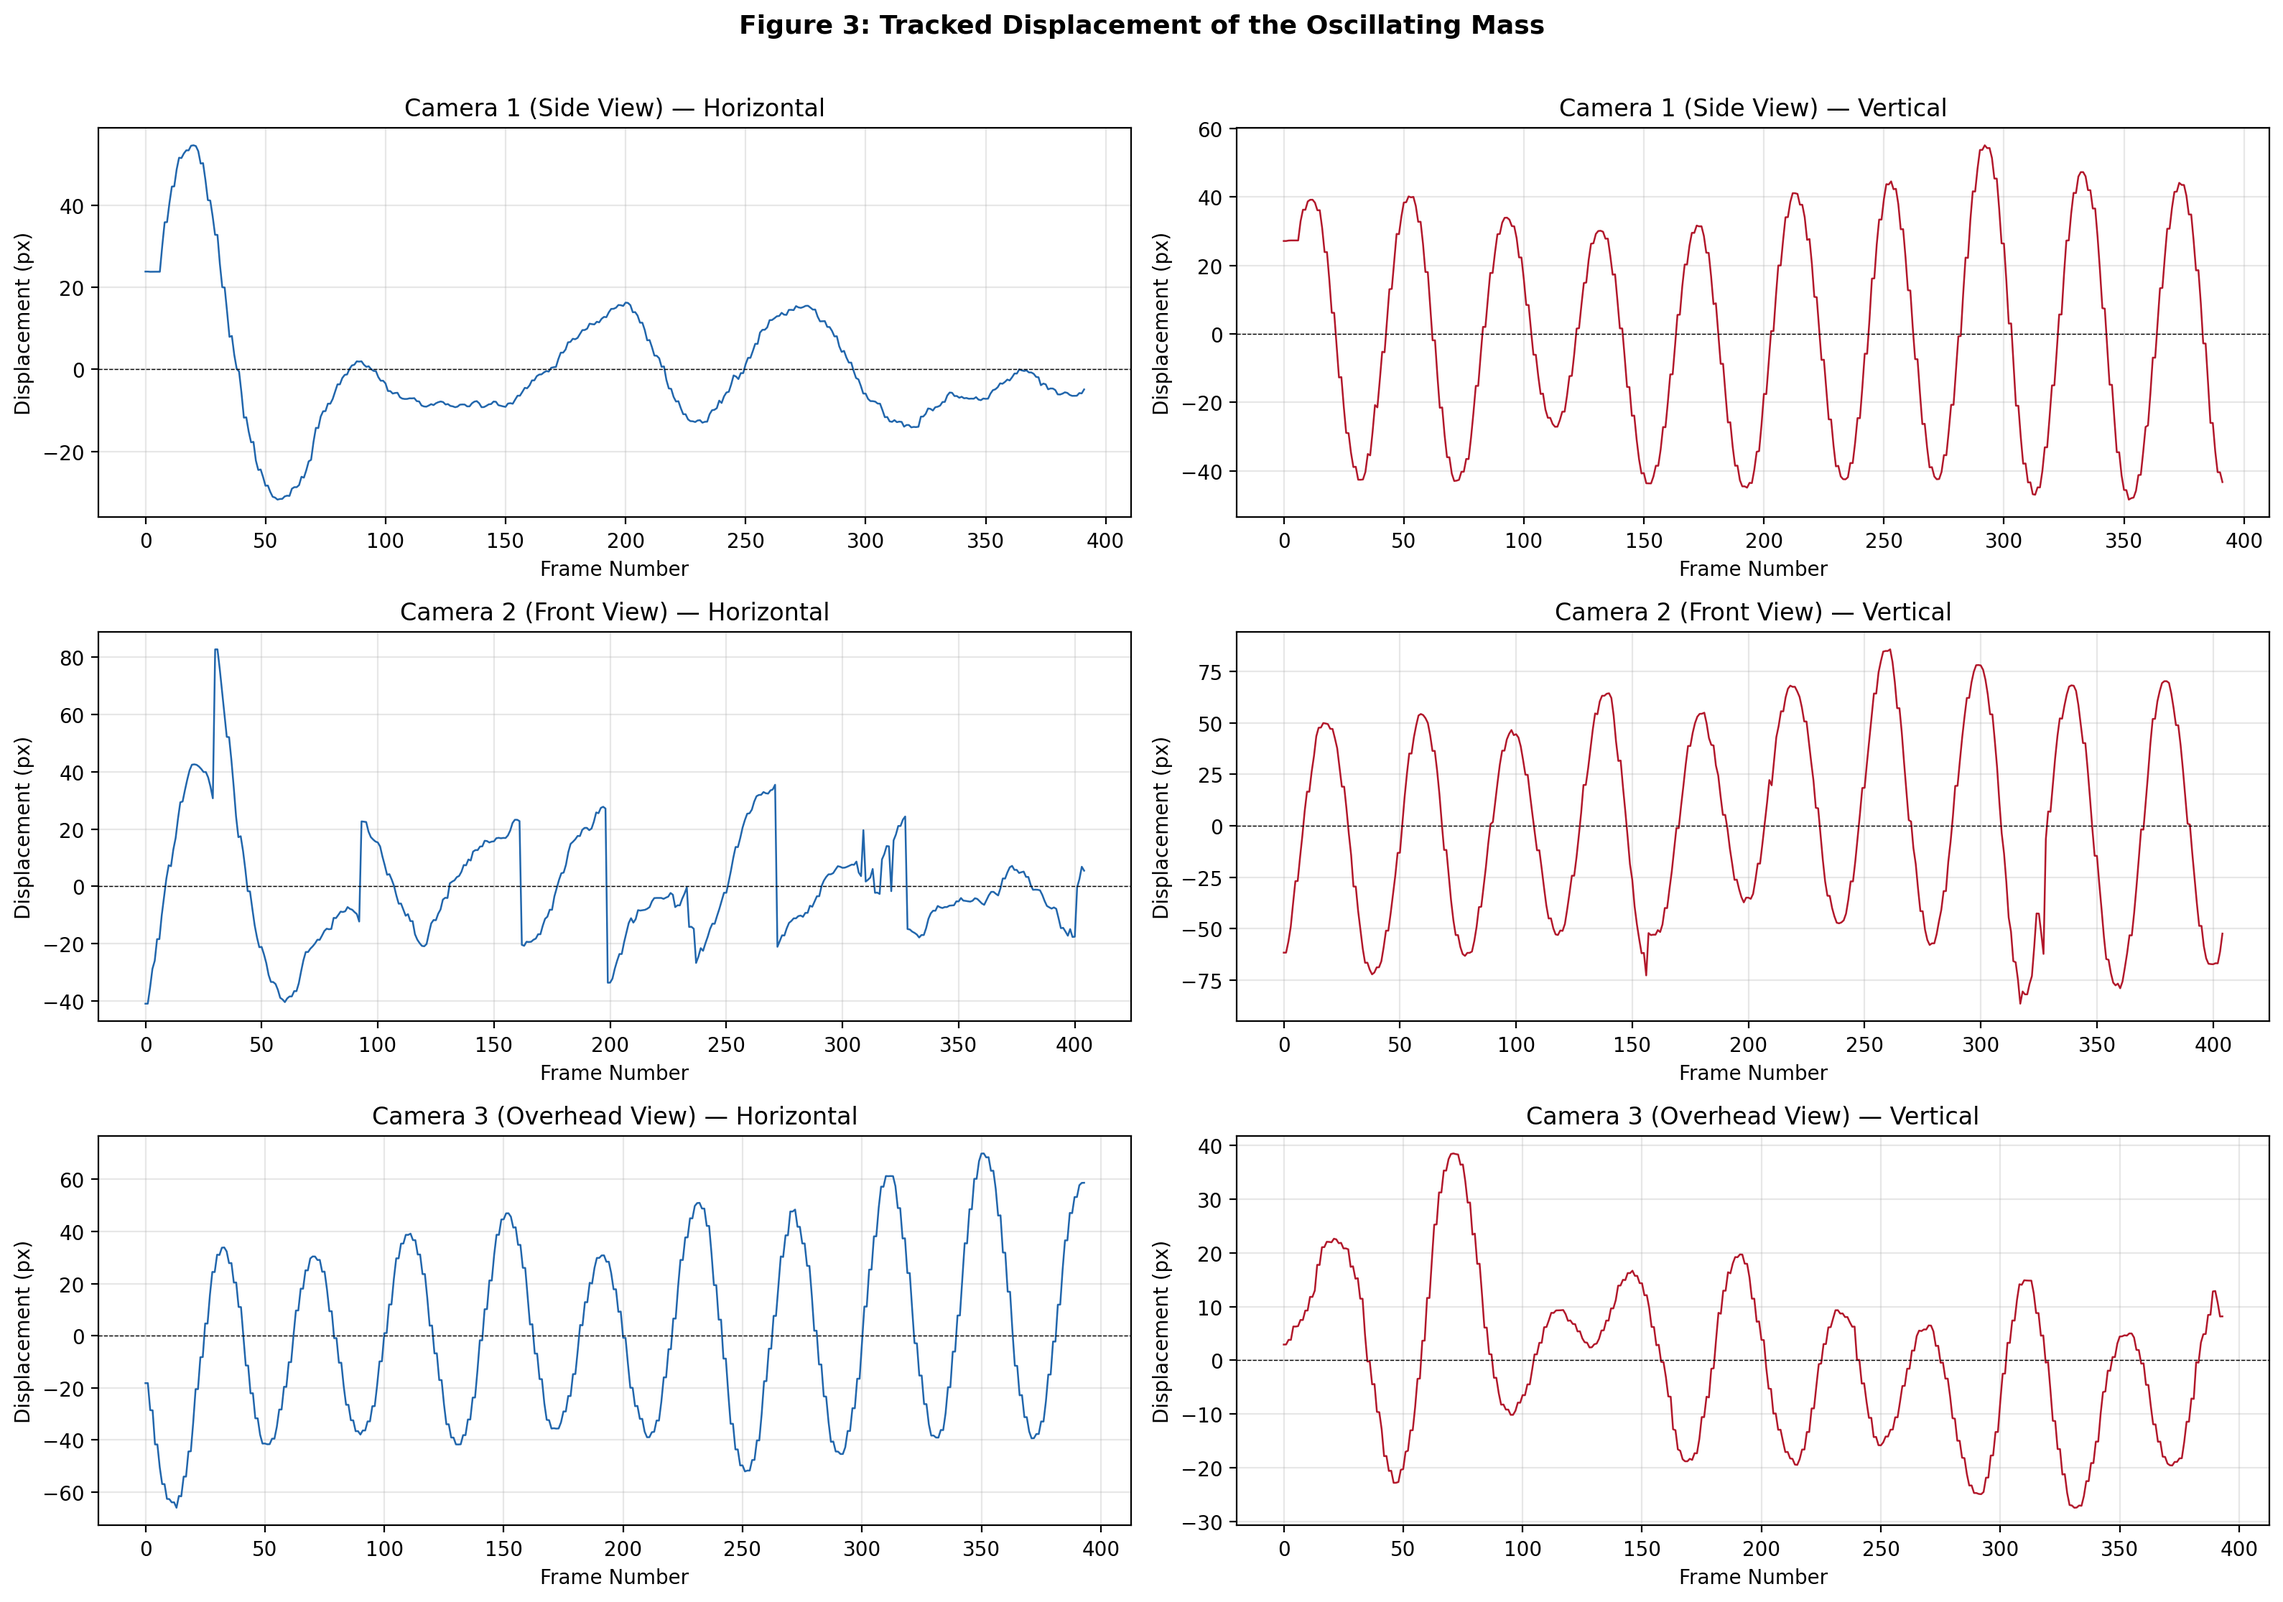
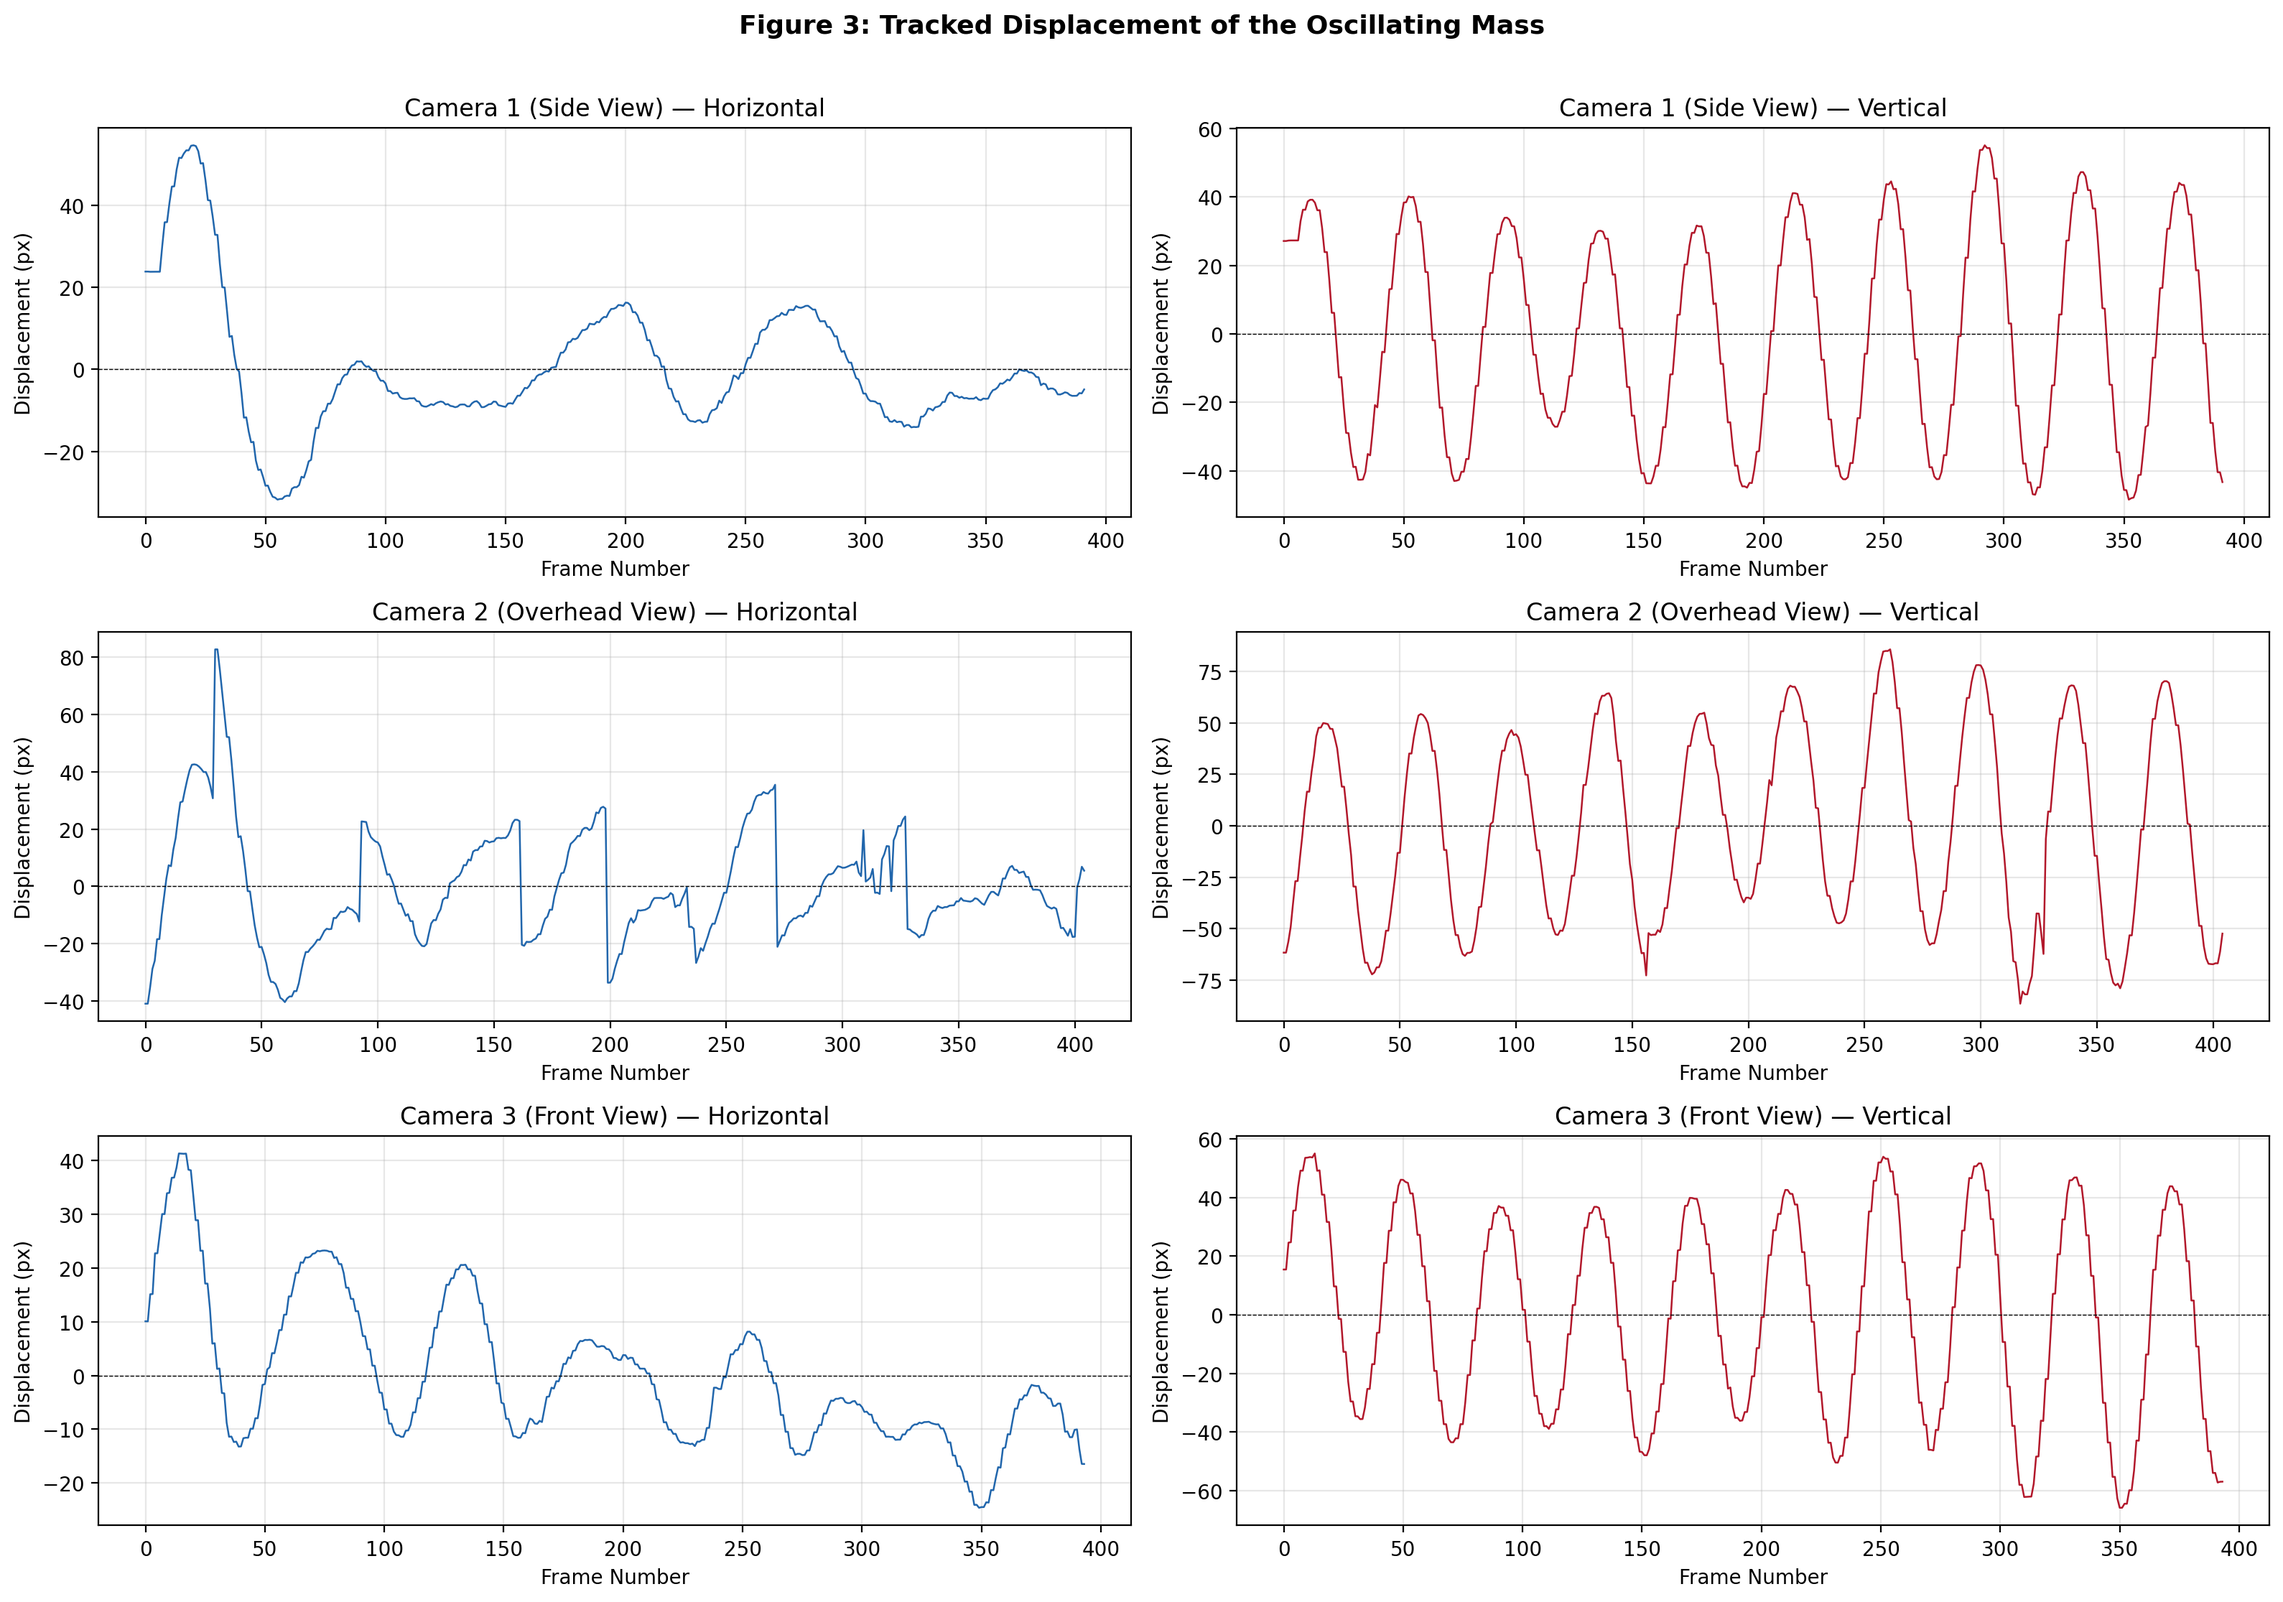
Rotate Camera 3 frames 90+24 deg CW, fix camera view labels (Cam2=Overhead, Cam3=Front), add dark_yellowgreen channel

diff --git a/chat1.py b/chat1.py
@@ -54,7 +54,7 @@ Output:  tracking_results.npz, diagnostic and trajectory figures
 # =========================================================================
 import numpy as np                        # numerical array operations
 import scipy.io as sio                    # reading MATLAB .mat files
-from scipy.ndimage import label           # connected component labelling
+from scipy.ndimage import label, rotate   # connected component labelling + rotation
 import matplotlib.pyplot as plt           # plotting and visualisation
 import os                                 # file path handling
 
@@ -71,13 +71,42 @@ VID_KEYS = {
 # File path template
 DATA_PATH = 'cam{}.mat'
 
+def rotate_cam3_video(vid):
+    """
+    Rotate Camera 3 video: 90° clockwise then an additional 24° clockwise.
+
+    The raw Camera 3 frames are rotated in the .mat file.  This function
+    first applies a 90° clockwise rotation (exact, no interpolation) and
+    then an additional 24° clockwise rotation using scipy.ndimage.rotate
+    with reshape=False to keep the frame dimensions constant.
+
+    Parameters
+    ----------
+    vid : ndarray, shape (H, W, 3, N)
+        Raw video array.
+
+    Returns
+    -------
+    rotated : ndarray, same dtype as input
+        Rotated video array.
+    """
+    # Step 1: exact 90° CW rotation
+    vid = np.rot90(vid, k=-1, axes=(0, 1))      # (480,640,3,N) → (640,480,3,N)
+    # Step 2: additional 24° CW  (scipy uses CCW positive, so angle = -24)
+    nframes = vid.shape[3]
+    for i in range(nframes):
+        vid[:, :, :, i] = rotate(vid[:, :, :, i], angle=-24,
+                                  reshape=False, order=1)
+    return vid
+
+
 # Region of Interest for each camera: (y_min, y_max, x_min, x_max)
 # Cropping to a region around the mass avoids bright distractors elsewhere
 # in the frame (ceiling lights, reflections, etc.)
 ROIS = {
     1: (150, 430, 280, 500),
     2: (80, 410, 180, 480),
-    3: (130, 350, 200, 520),
+    3: (200, 520, 129, 349),   # after 90° CW rotation of Camera 3
 }
 
 # Channel mode for each camera:
@@ -243,6 +272,53 @@ def rgb_to_pink_channel(rgb_image):
     pink = np.clip(pink, 0, None)
 
     return pink
+
+
+def rgb_to_dark_yellowgreen_channel(rgb_image):
+    """
+    Compute a "dark yellow-green channel" from RGB pixel values.
+
+    This channel isolates dark yellow-green regions by combining a
+    colour signal (G − B) with a darkness weighting factor.  The idea
+    is that the dark yellow-green stripe on the paint can has high Green
+    relative to Blue, but low overall brightness compared to the white
+    wall or bright yellow areas:
+
+        colour  = max(G − B, 0)
+        darkness = clip(150 − brightness, 0, 150) / 150
+        output  = colour × darkness
+
+    Colour responses:
+        Dark yellow-green stripe: high G−B, low brightness → large value
+        Bright wall / paper:      moderate G−B, high brightness → suppressed
+        Black can body:           low G−B, low brightness → near zero
+        Background:               variable, but mostly bright → suppressed
+
+    Like the other custom channels, this is an arithmetic combination of
+    the (R, G, B) pixel values (Lecture 4, Sec. 1.1.1), extended with a
+    brightness-based weighting.
+
+    Parameters
+    ----------
+    rgb_image : ndarray, shape (H, W, 3)
+        Input image in RGB format (values 0–255).
+
+    Returns
+    -------
+    dark_yg : ndarray, shape (H, W)
+        Dark yellow-green channel as float64.  High values = likely the
+        dark yellow-green stripe.
+    """
+    R = rgb_image[:, :, 0].astype(np.float64)
+    G = rgb_image[:, :, 1].astype(np.float64)
+    B = rgb_image[:, :, 2].astype(np.float64)
+
+    brightness = (R + G + B) / 3.0
+    colour_signal = np.clip(G - B, 0, None)
+    darkness = np.clip(150.0 - brightness, 0, 150.0) / 150.0
+    dark_yg = colour_signal * darkness
+
+    return dark_yg
 
 
 # =========================================================================
@@ -516,6 +592,13 @@ def track_camera(cam_id):
     print(f'  Loading {filepath}...')
     data = sio.loadmat(filepath)
     vid = data[VID_KEYS[cam_id]]            # shape: (480, 640, 3, nframes)
+
+    # Camera 3 frames are rotated in the raw data.
+    # Rotate 90° + 24° clockwise to get the correct orientation.
+    if cam_id == 3:
+        vid = rotate_cam3_video(vid)
+        print(f'  Rotated Camera 3 frames 90°+24° clockwise')
+
     nframes = vid.shape[3]
     print(f'  Video shape: {vid.shape}  →  {nframes} frames')
 
@@ -564,6 +647,8 @@ def track_camera(cam_id):
             gray = rgb_to_yellow_channel(roi_rgb)
         elif mode == 'pink':
             gray = rgb_to_pink_channel(roi_rgb)
+        elif mode == 'dark_yellowgreen':
+            gray = rgb_to_dark_yellowgreen_channel(roi_rgb)
         else:
             gray = rgb_to_grayscale(roi_rgb)
 
@@ -653,6 +738,8 @@ def plot_pipeline_diagnostic(cam_id, frame_idx=0):
     # load data
     data = sio.loadmat(DATA_PATH.format(cam_id))
     vid = data[VID_KEYS[cam_id]]
+    if cam_id == 3:
+        vid = rotate_cam3_video(vid)
     rgb_frame = vid[:, :, :, frame_idx]
 
     # unpack parameters
@@ -899,6 +986,8 @@ if __name__ == '__main__':
             continue
         data = sio.loadmat(DATA_PATH.format(cam))
         vid = data[VID_KEYS[cam]]
+        if cam == 3:
+            vid = rotate_cam3_video(vid)
         y1, y2, x1, x2 = ROIS[cam]
         for j, fidx in enumerate(sample_frames):
             if fidx < vid.shape[3]:
@@ -927,8 +1016,8 @@ if __name__ == '__main__':
     print('Generating Figure 3: Displacement time series...')
     cam_labels = {
         1: 'Camera 1 (Side View)',
-        2: 'Camera 2 (Front View)',
-        3: 'Camera 3 (Overhead View)',
+        2: 'Camera 2 (Overhead View)',
+        3: 'Camera 3 (Front View)',
     }
     fig, axes = plt.subplots(3, 2, figsize=(16, 11))
 

diff --git a/test1.py b/test1.py
@@ -5,14 +5,16 @@ Show Camera 1 frame ranges for debugging.
 import numpy as np
 import scipy.io as sio
 import matplotlib.pyplot as plt
-from chat1 import track_camera, ROIS, VID_KEYS, CHANNEL_MODE
+from chat1 import track_camera, ROIS, VID_KEYS, CHANNEL_MODE, rotate_cam3_video
 
 # -- Settings --------------------------------------------------------------
-CAM = 1
-FRAME_RANGES = [(75, 100), (110, 150)]
+CAM = 2
+FRAME_RANGES = [(75, 100)]
 
 # -- Load video & run tracker ---------------------------------------------
 vid = sio.loadmat(f'cam{CAM}.mat')[VID_KEYS[CAM]]   # (480, 640, 3, nframes)
+if CAM == 3:
+    vid = rotate_cam3_video(vid)  # 90°+24° CW rotation for Camera 3
 x_raw, y_raw = track_camera(CAM)
 y1, y2, x1, x2 = ROIS[CAM]
 
